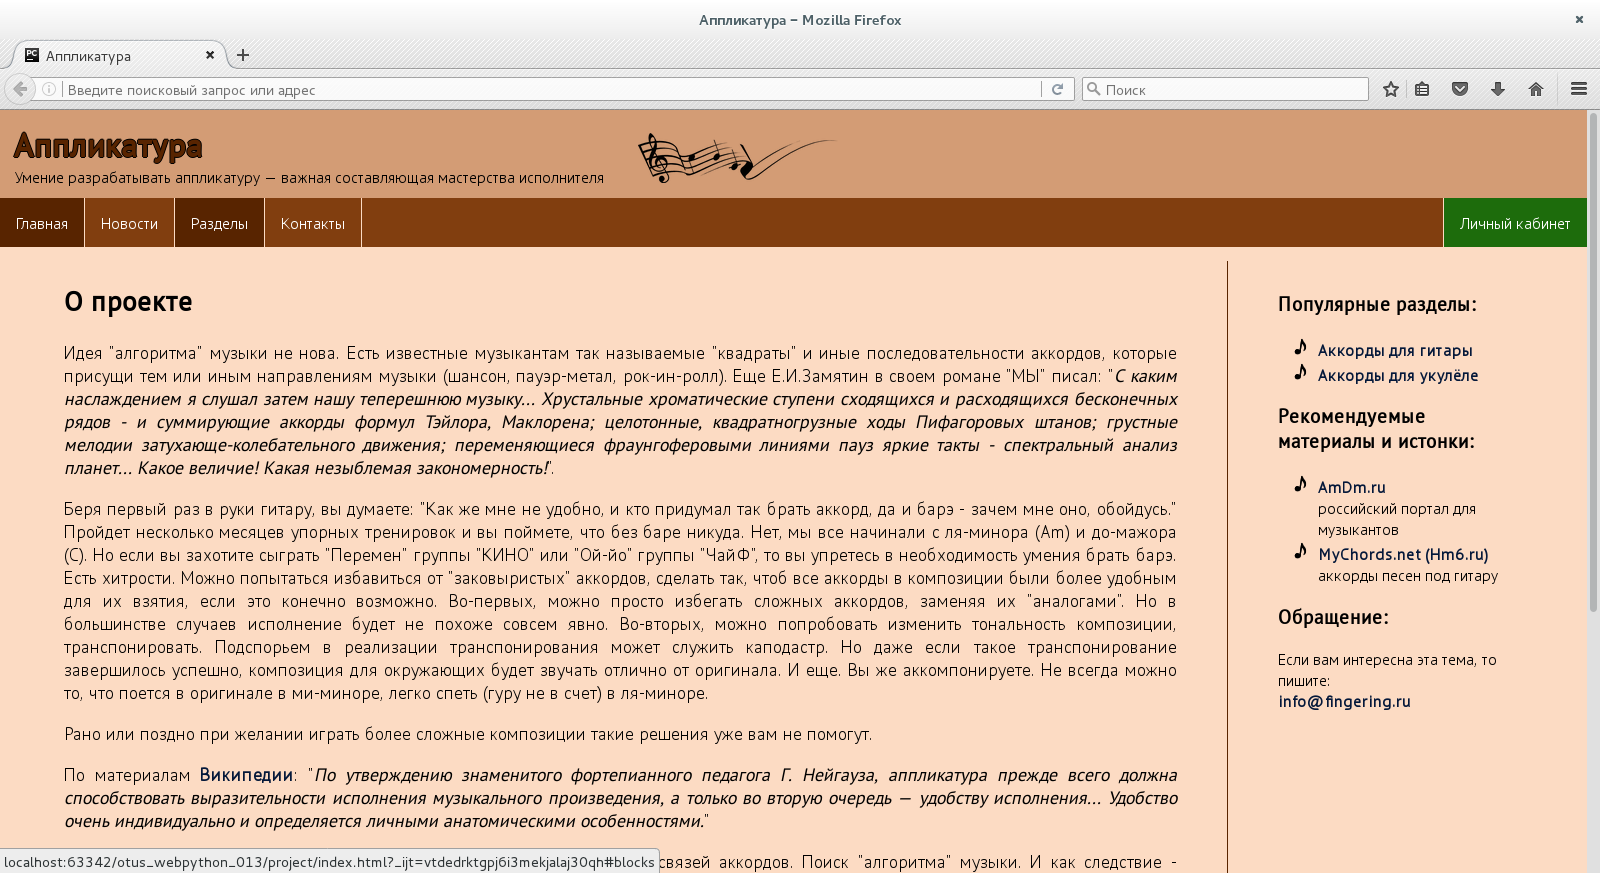
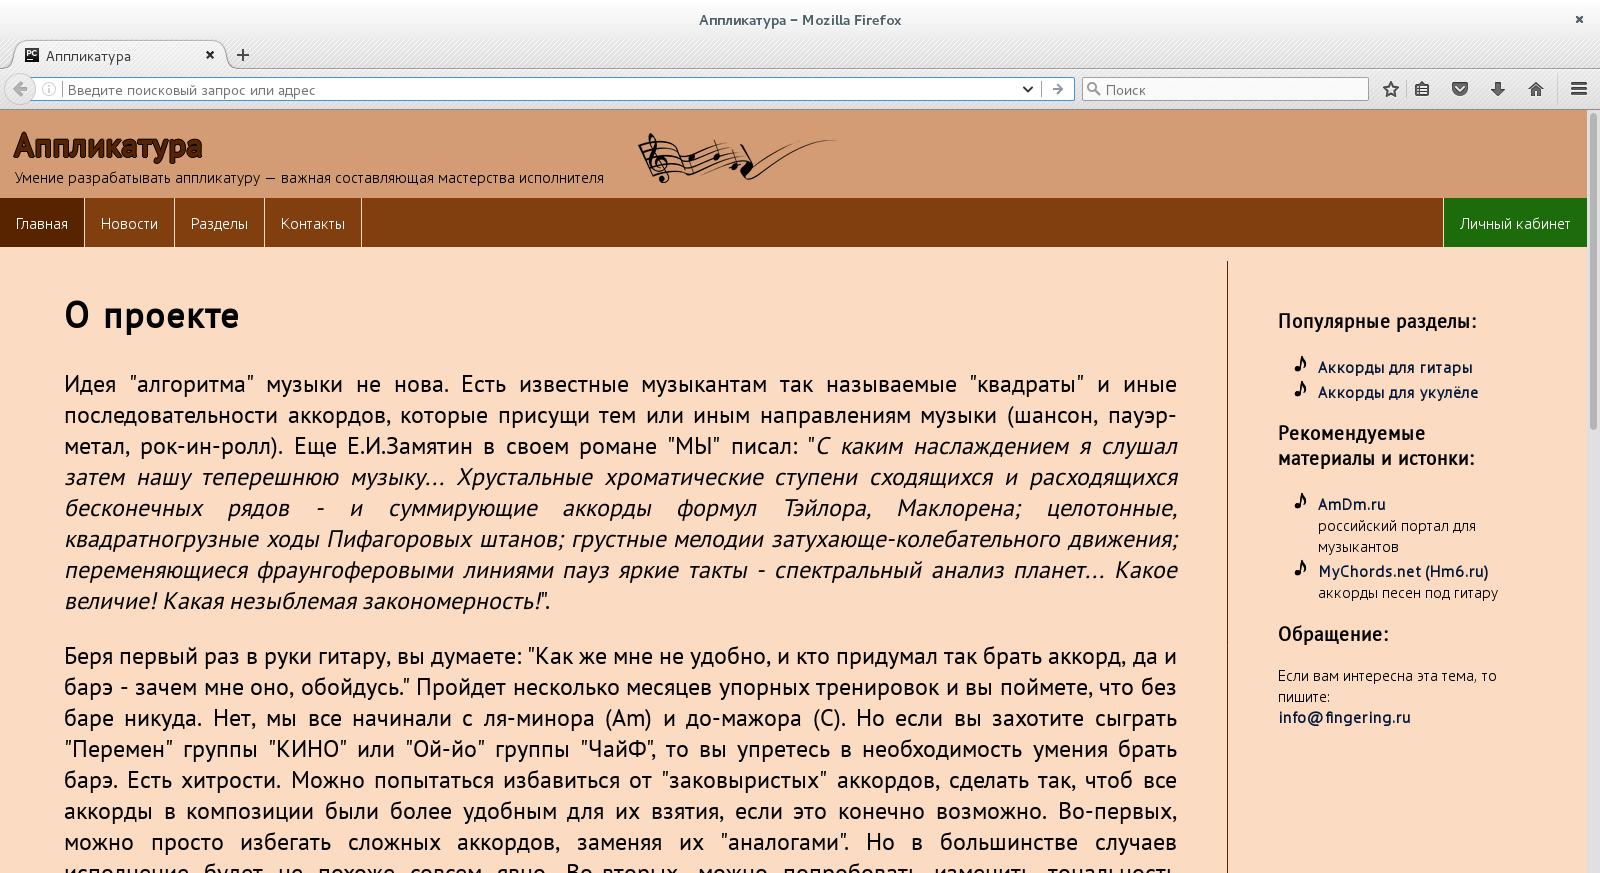
font-size: 24px;

diff --git a/project/static/css/style.css b/project/static/css/style.css
@@ -76,7 +76,7 @@ html, body {
 /* content */
 .content {
     min-height: calc(100vh - 187px);
-    font-size: 18px;
+    font-size: 24px;
     margin: 0;
     padding: 14px;
     color: #000;
